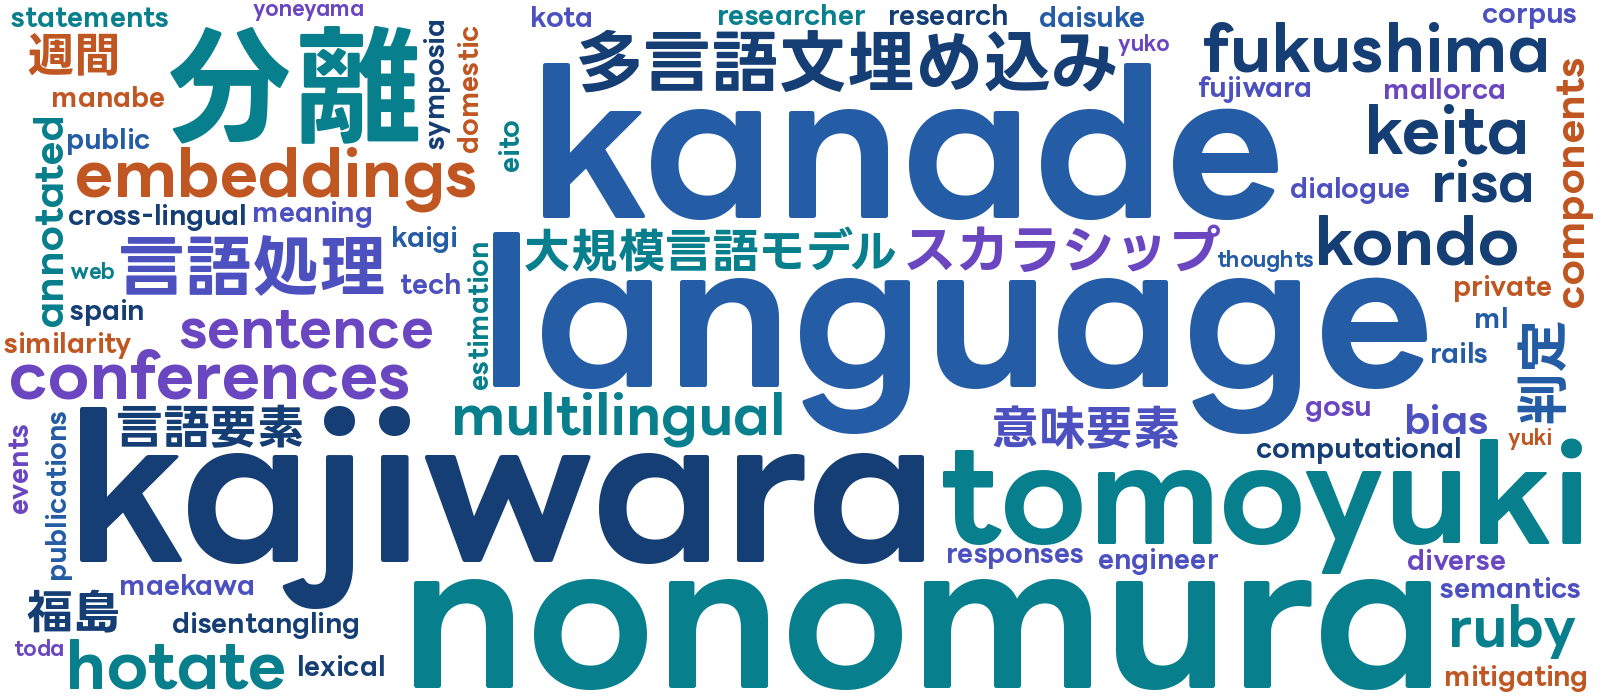
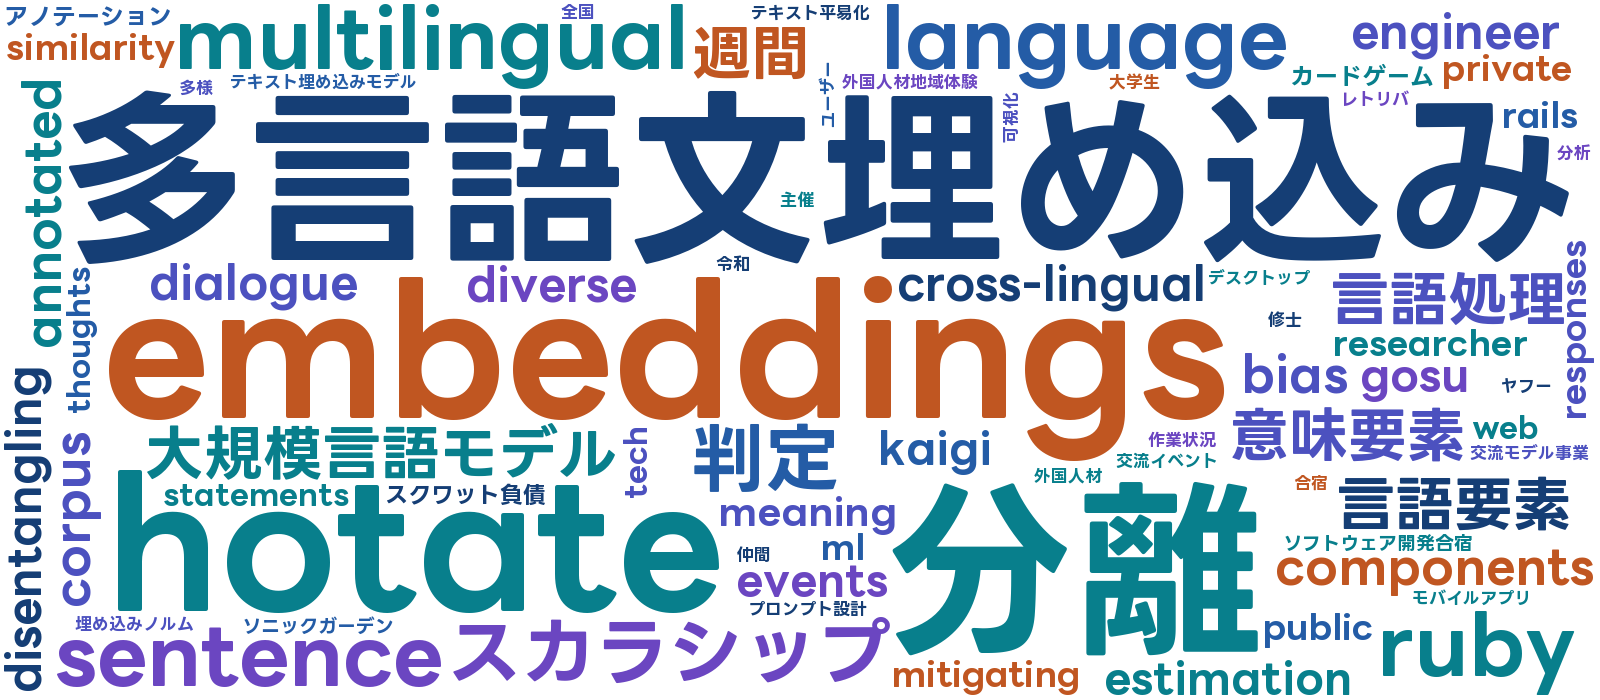
fix: exclude publication authors from word cloud

diff --git a/tests/test_generate_wordcloud.py b/tests/test_generate_wordcloud.py
@@ -8,7 +8,8 @@ from scripts.generate_wordcloud import split_documents, tfidf_weights
 class WordCloudCorpusTest(unittest.TestCase):
     def test_publication_sections_only_include_marked_titles(self) -> None:
         source = """
-## 国際学会
+## Publications
+### International Conferences
 <ul><li>
 <span class="portfolio-item-title">Distinctive Research Title</span><br>
 <u>PRIVATE_AUTHOR_SENTINEL</u>, SECOND_AUTHOR_SENTINEL,
@@ -22,6 +23,18 @@ In Proceedings of a Conference.
         self.assertNotIn("PRIVATE_AUTHOR_SENTINEL", document)
         self.assertNotIn("SECOND_AUTHOR_SENTINEL", document)
         self.assertNotIn("Proceedings", document)
+
+    def test_legacy_academic_heading_still_excludes_author_metadata(self) -> None:
+        source = """
+## 国内学会
+<span class="portfolio-item-title">固有な論文題目</span><br>
+架空著者甲, 架空著者乙
+"""
+
+        document = split_documents(source)[0]
+
+        self.assertIn("固有な論文題目", document)
+        self.assertNotIn("架空著者", document)
 
     def test_idf_downweights_a_term_present_in_every_document(self) -> None:
         weights = tfidf_weights([

diff --git a/scripts/generate_wordcloud.py b/scripts/generate_wordcloud.py
@@ -81,9 +81,9 @@ def split_documents(source: str) -> list[str]:
     if preamble:
         docs.append(preamble)
 
-    academic_sections = {"国際学会", "国内学会", "シンポジウム"}
+    publication_sections = {"publications", "国際学会", "国内学会", "シンポジウム"}
     for heading, body in zip(parts[1::2], parts[2::2]):
-        if heading.strip() in academic_sections:
+        if heading.strip().casefold() in publication_sections:
             # In publication sections, only the marked-up work titles describe the
             # portfolio owner. Author and venue lines are metadata and may contain
             # third-party names, so they never enter the tokenizer.
@@ -92,7 +92,7 @@ def split_documents(source: str) -> list[str]:
                 body,
                 flags=re.DOTALL | re.IGNORECASE,
             )
-            document = visible_markdown(heading + "\n" + "\n".join(titles)).strip()
+            document = visible_markdown("\n".join(titles)).strip()
         else:
             document = visible_markdown(heading + "\n" + body).strip()
         if document:
